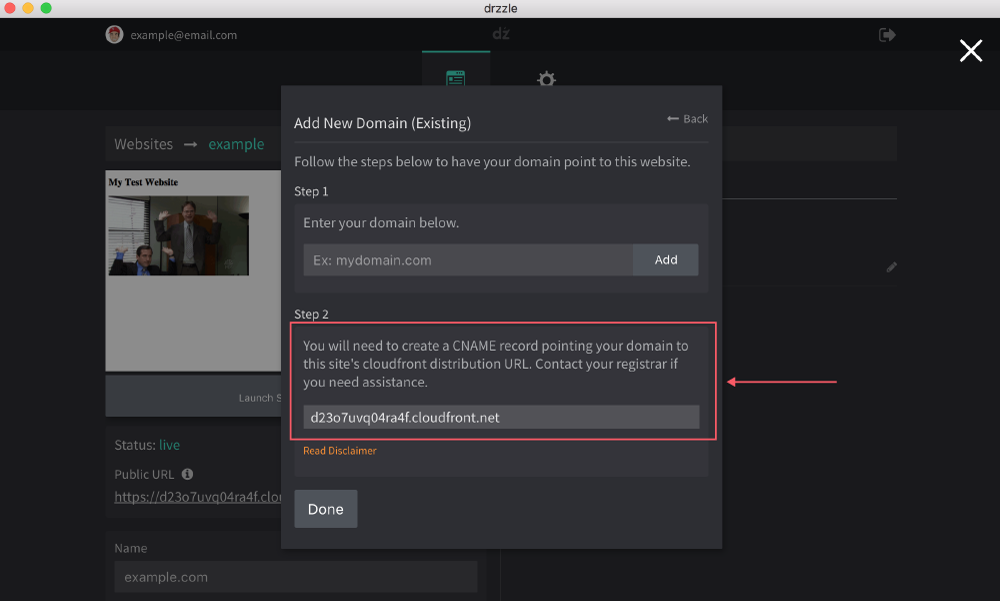
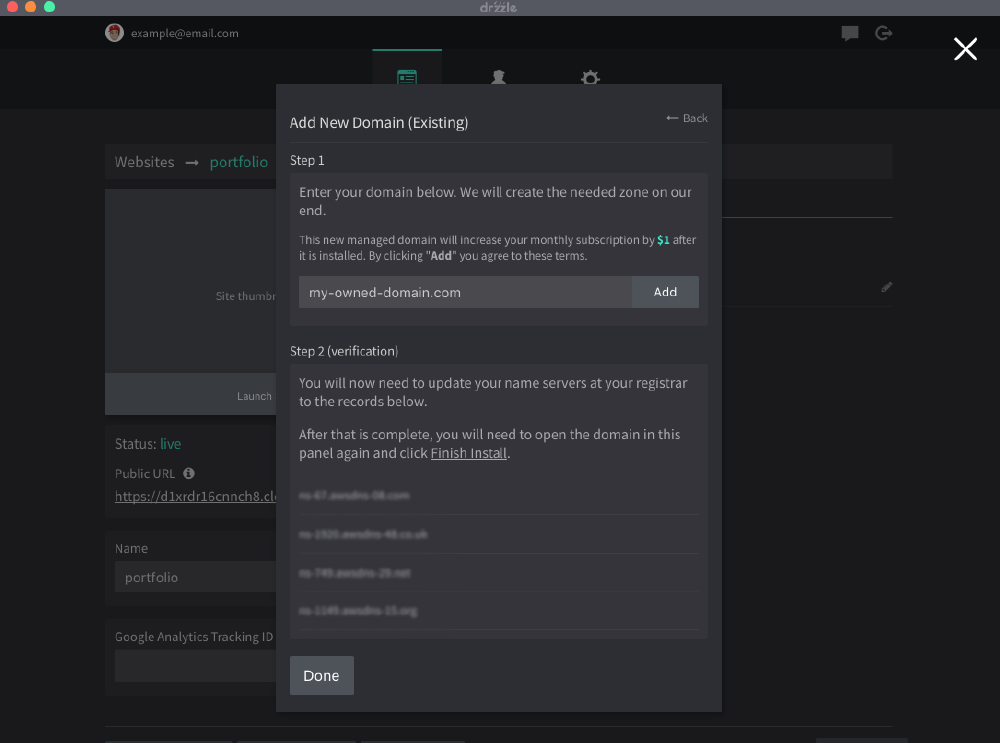
updating docs to remove domain and ssl caveats

diff --git a/docs/.vuepress/config.js b/docs/.vuepress/config.js
@@ -40,10 +40,6 @@ module.exports = {
         ]
       },
       {
-        title: "SSL Certificates",
-        children: ["/ssl/adding/", "/ssl/editing/", "/ssl/deleting/"]
-      },
-      {
         title: "Components",
         children: [
           "/components/droplets/",

diff --git a/docs/domains/adding/README.md b/docs/domains/adding/README.md
@@ -1,6 +1,6 @@
 # Adding Domains
 
-Domains are added on a per site basis and you can add as many as you like. To add one, you will need to open the site's basic website settings page from the Admin Panel.
+Domains are added on a per site basis and you can add as many as you like. To add one, you will need to open the site's basic website settings page from the Admin Panel. When adding a new domain, a new SSL certificate will automatically be issued to cover it.
 
 ## Purchasing
 Follow these steps to purchase a domain name
@@ -37,10 +37,9 @@ Zip Code: 78223
 ```
 
 ## Pre-Owned
-If you already own a domain, there are 2 ways to add it to your site. See below for step by steps for both methods.
+If you already own a domain, you will need to point your name servers to ours so that we can setup the needed records for you on our end. See below for step by steps instructions.
 
-### Method One - Point your name servers to Drzzle's
-The first method is to point your domain's name servers to ours. We highly recommend this method because of the way our backend is setup. We use Amazon Web Services's Route53 domains in conjunction with CloudFront and there is a special DNS record route53 uses to alias to your site's CloudFront distribution. What this means is that you can safely have your records setup without interrupting any other services you may use in the future with your domain (like email). Doing this also allows you to control DNS records within our control panel. The only caveat is that AWS charges a small monthly fee for this.
+If you wish to keep your domain's name servers and manage records on your own, you will need to contact support at ```support@drzzle.com``` to get the correct records.
 
 Steps:
 
@@ -48,20 +47,28 @@ Steps:
 
 ![add owned domain step 1](./purchase-domain-step-1.png)
 
-2) Click on "Yes I want to point"
+2) Click on "I already own this domain"
 
-![add owned domain step 2](./owned-m1-step-2.png)
+![add owned domain step 2](./owned-m2-step-2.png)
 
 3) Enter your domain name without any subdomain/www. For example: ```mydomain.com```. Then click "Add".
 
-![add owned domain step 3](./owned-m1-step-3.png)
+![add owned domain step 3](./owned-m2-step-3.png)
 
-4) After clicking add from the previous step, you'll see a set of name servers which you'll then need to go and set at the registrar where you bought your domain. Contact your registrar if you need assistance.
+4) You'll see a set of new name servers. You'll then need to go and set them at the registrar where you bought your domain. Contact your registrar if you need assistance.
+
+![add owned domain step 3](./owned-m2-step-4.png)
+
+5) After the new name servers are successfully set on your end, you can check the status of the domain by opening the edit domain modal. Once the nameservers are recognized, the last step is to click on "Finish Install".
+
+![add owned domain step 3](./owned-m2-step-5.png)
+
+![add owned domain step 3](./owned-m2-step-6.png)
 
 Once this is all complete, you will now be able to create DNS records within the Admin Panel.
 
 
-### Method Two - Keep your name servers
+<!-- ### Method Two - Keep your name servers
 The second method is best suited for those that do not want to pay the small monthly fee for the domain or do not plan on using your domain for other services. The caveat here is that you will need to manage your DNS records yourself.
 
 1) Click on the "Add Domain" button from the site's "Domains" tab.
@@ -80,4 +87,4 @@ The second method is best suited for those that do not want to pay the small mon
 
 ![add owned domain step 4](./owned-m2-step-4.png)
 
-As this method means that you will be editing your DNS records on your own, there are a few things to keep in mind. Depending on your domain's TTL, changes can take effect from anywhere between 5 minutes to several days. If your domain is using a service like email, a CNAME record will likely disrupt it. Having your domain not managed in our panel also disallows our support to assist in setting up records for you.
+As this method means that you will be editing your DNS records on your own, there are a few things to keep in mind. Depending on your domain's TTL, changes can take effect from anywhere between 5 minutes to several days. If your domain is using a service like email, a CNAME record will likely disrupt it. Having your domain not managed in our panel also disallows our support to assist in setting up records for you. -->
